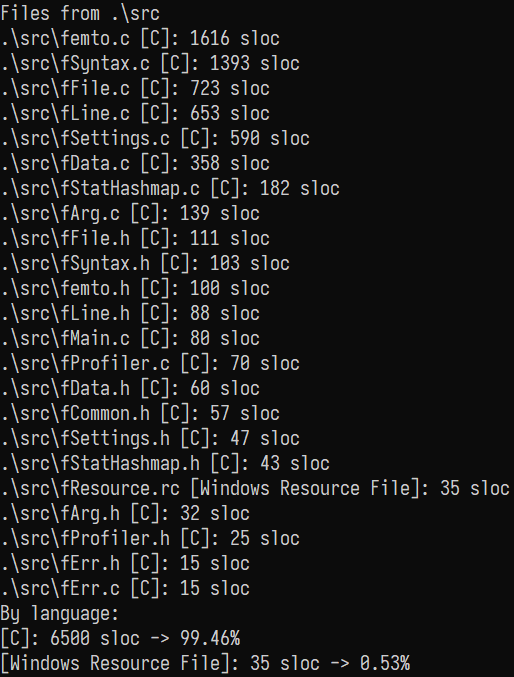
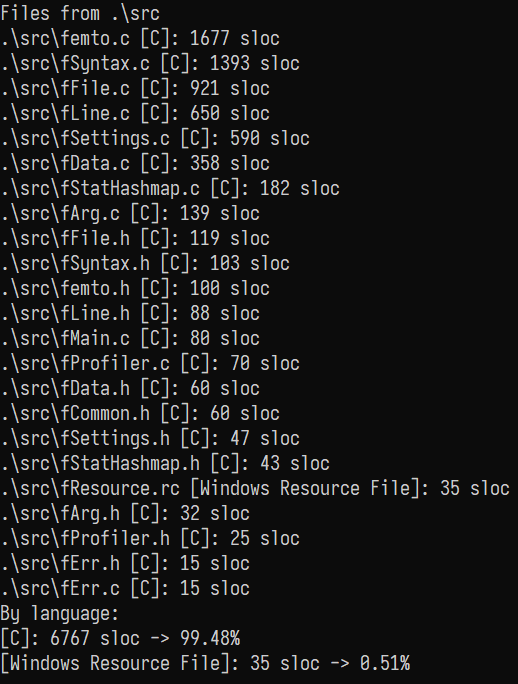
Update sloc

Changed region(s): [[0.0, 0.0, 0.9961, 1.0]]

diff --git a/README.md b/README.md
@@ -13,7 +13,7 @@ It is also written in vanilla C & Win32 Console API - it's designed to be used s
 It has been compiled with MinGW GCC.
 
 Currently, my other tool [slocWin32](https://github.com/makuke1234/slocWin32)
-reports ~6500 source code lines (excluding whitespace, comments, language keywords & [jsonlite2](https://github.com/makuke1234/jsonlite2) library):
+reports ~6800 source code lines (excluding whitespace, comments, language keywords & [jsonlite2](https://github.com/makuke1234/jsonlite2) library):
 
 ![SLOC](./images/sloc.png)
 
